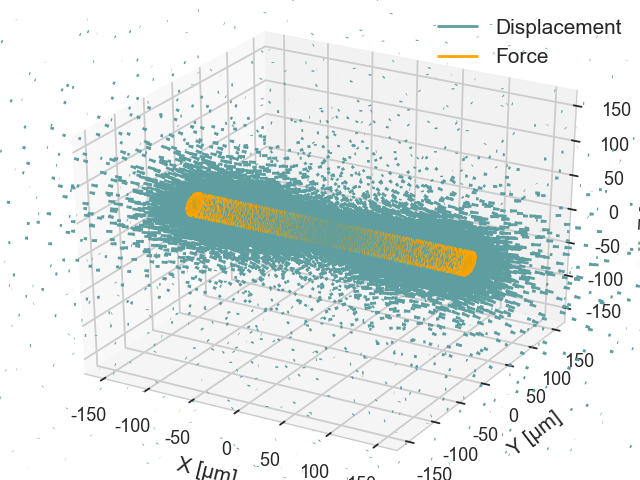
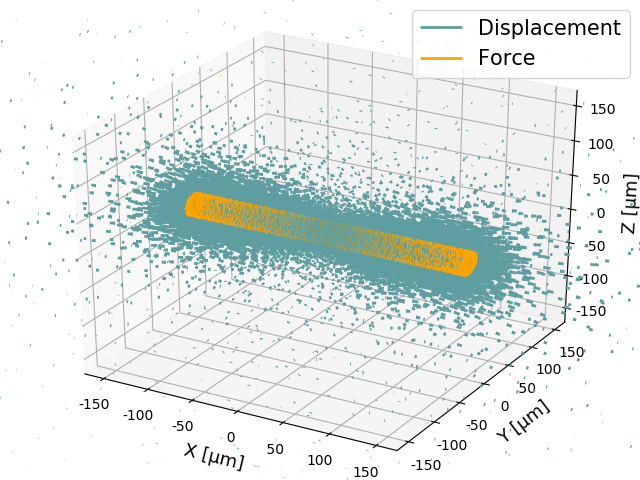
Changed force quiver plot

diff --git a/arnold/force.py b/arnold/force.py
@@ -2,9 +2,6 @@ from __future__ import print_function, division
 import numpy as np
 import matplotlib.pyplot as plt
 from mpl_toolkits.mplot3d import Axes3D
-# import seaborn as sns
-# sns.set_context('talk')
-# sns.set_style('whitegrid')
 from matplotlib.ticker import FormatStrFormatter
 import pandas as pd
 
@@ -44,9 +41,9 @@ def reconstruct_contractility(simulation_folder, d_cyl, l_cyl, r_outer):
     "Display Results in 3D Plot"
     fig1 = plt.figure()
     ax1 = Axes3D(fig1)
-    ax1.set_xlabel('X [\u03bcm]', labelpad=14, fontsize = 15)
-    ax1.set_ylabel('Y [\u03bcm]', labelpad=14, fontsize = 15)
-    ax1.set_zlabel('Z [\u03bcm]', labelpad=14, fontsize = 15)
+    ax1.set_xlabel('X [\u03bcm]', labelpad=6, fontsize = 13)
+    ax1.set_ylabel('Y [\u03bcm]', labelpad=6, fontsize = 13)
+    ax1.set_zlabel('Z [\u03bcm]', labelpad=6, fontsize = 13)
     # Display Deformation, Forces and selected Boundary
     u_x = np.array(U[:,0])
     u_y = np.array(U[:,1])

diff --git a/arnold/materials.py b/arnold/materials.py
@@ -8,7 +8,6 @@ def linear_stiffness(stiffness):
     """
     return {'K_0': stiffness, 'D_0': 1e30, 'L_S': 1e30, 'D_S': 1e30}
 
-
     
 
 def youngs_modulus(youngs_modulus):
